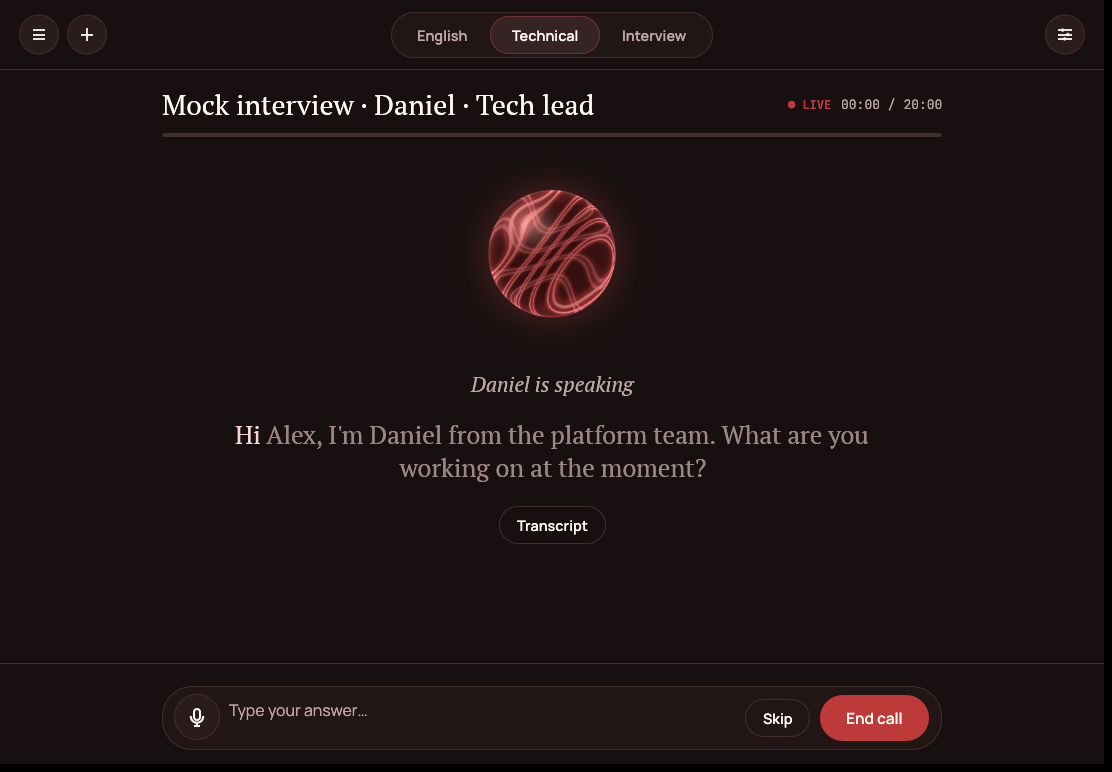
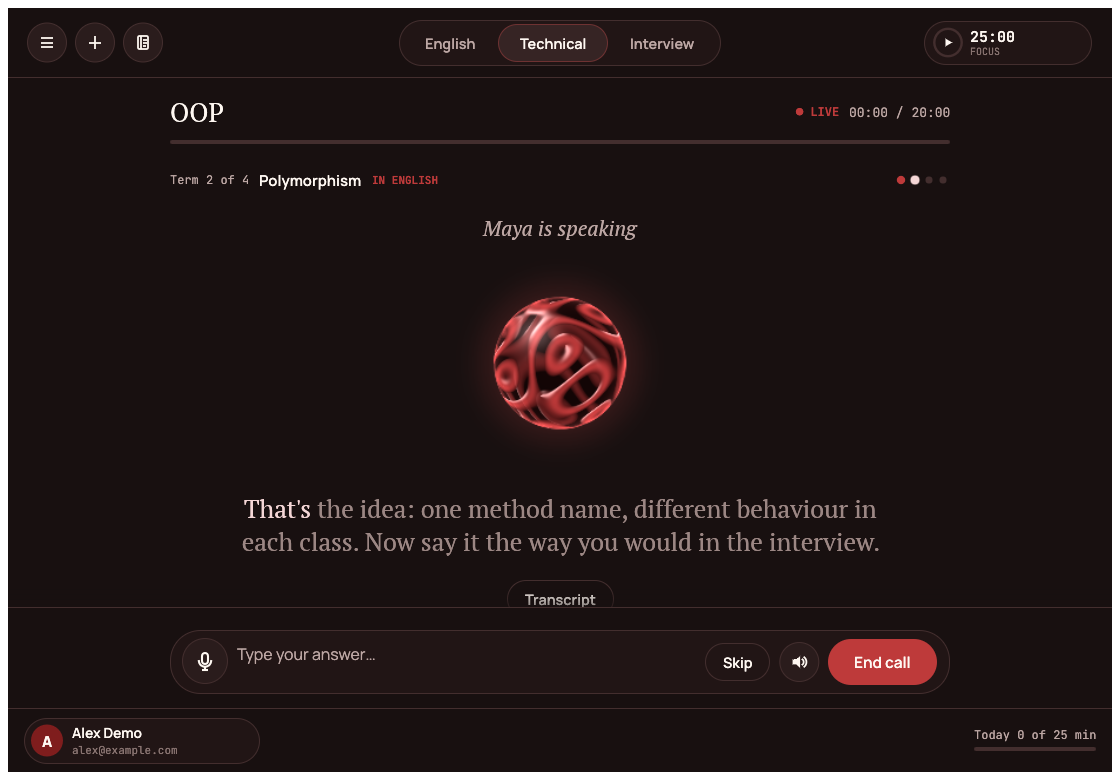
docs: the tutor, the plan, pictures and live coding
Describes what each part does and, where it matters, what it cannot do: the plan is the model's
knowledge and not a web search, and the coding tutor sees only this program's window. New
screenshots of the home, a lesson, a picture, live coding and the menu.

diff --git a/prep/tests/ui_shots.rs b/prep/tests/ui_shots.rs
@@ -1690,3 +1690,106 @@ fn the_finished_code_and_what_the_editor_saw_go_into_the_review() {
     assert!(prompt.contains("THE CODE AT THE END") && prompt.contains("return [0, 1]"), "{prompt}");
     assert!(prompt.contains("WHAT THE EDITOR SAW: nothing unusual."));
 }
+
+// ---- the pictures used in the documentation (written only when UI_SHOTS names a folder) ----
+
+#[test]
+fn docs_a_picture_in_the_middle_of_its_story() {
+    if std::env::var("UI_SHOTS").is_err() {
+        return;
+    }
+    let (mut harness, _d, _r) = harness(picture_fixture(), 1120.0, 780.0);
+    let stage = harness.state_mut().core.begin_stage("queue", "", false);
+    harness.state_mut().screen =
+        Screen::Show(Box::new(careertwin_prep::ui::show::ShowView { stage: Some(stage), ..Default::default() }));
+    wait_until(
+        &mut harness,
+        "the story is ready",
+        |h| matches!(&h.state().screen, Screen::Show(v) if v.stage.as_ref().is_some_and(|s| s.player().is_some())),
+    );
+    if let Screen::Show(view) = &mut harness.state_mut().screen {
+        let player = view.stage.as_mut().unwrap().player_mut().unwrap();
+        for i in 0..3 {
+            player.set_voice(i, None);
+        }
+    }
+    harness.run_steps(2);
+    harness.get_by_label("Next scene").click();
+    harness.run_steps(3);
+    // let the panels settle in, then stand at the moment the sentence is half said
+    for _ in 0..30 {
+        std::thread::sleep(std::time::Duration::from_millis(30));
+        harness.run_steps(1);
+    }
+    if let Screen::Show(view) = &mut harness.state_mut().screen {
+        view.stage.as_mut().unwrap().player_mut().unwrap().seek(0.7, std::time::Instant::now());
+    }
+    harness.run_steps(2);
+    shot(&mut harness, "docs-picture");
+}
+
+#[test]
+fn docs_a_lesson_with_the_tutor_speaking() {
+    if std::env::var("UI_SHOTS").is_err() {
+        return;
+    }
+    let (mut harness, _d, _r) = harness(fixture("en"), 1120.0, 780.0);
+    let wired = tutoring(&mut harness, Mode::Terms);
+    wired.events.send(Event::State(State::Speaking)).unwrap();
+    wired
+        .events
+        .send(Event::Lesson(LessonView { index: 1, total: 4, name: "Polymorphism".into(), stage: Stage::English }))
+        .unwrap();
+    wired
+        .events
+        .send(Event::Caption {
+            text: "That's the idea: one method name, different behaviour in each class.".into(),
+            seconds: 6.0,
+        })
+        .unwrap();
+    wired
+        .events
+        .send(Event::Caption { text: "Now say it the way you would in the interview.".into(), seconds: 4.0 })
+        .unwrap();
+    harness.run();
+    shot(&mut harness, "docs-lesson");
+}
+
+#[test]
+fn docs_the_home_with_a_plan_and_a_streak() {
+    if std::env::var("UI_SHOTS").is_err() {
+        return;
+    }
+    let (mut harness, _d, _r) = harness(fixture("en"), 1120.0, 900.0);
+    harness.state_mut().core.syllabus = Some(plan_of_two());
+    let now = careertwin_prep::session::now();
+    for back in 1..=4u64 {
+        harness.state_mut().core.stats.add_practice(now - back * 86_400, 15 * 60, 200);
+    }
+    harness.state_mut().core.stats.add_practice(now, 9 * 60, 120);
+    harness.state_mut().core.progress.record("OOP", "Encapsulation", careertwin_prep::syllabus::Half::Native, 3, now);
+    harness.run();
+    shot(&mut harness, "docs-home");
+}
+
+#[test]
+fn docs_live_coding_with_a_question_from_the_tutor() {
+    if std::env::var("UI_SHOTS").is_err() {
+        return;
+    }
+    let (mut harness, _d, _r) = harness(fixture("en"), 1280.0, 780.0);
+    let wired = coding(&mut harness);
+    wired.events.send(Event::State(State::Speaking)).unwrap();
+    wired
+        .events
+        .send(Event::Caption {
+            text: "Take [2, 7, 11] with the target 9 and follow the loop. What does it return?".into(),
+            seconds: 5.0,
+        })
+        .unwrap();
+    if let Screen::Live(view) = &mut harness.state_mut().screen {
+        view.coding.as_mut().unwrap().text = "def two_sum(nums, target):\n    seen = {}\n    for i, n in enumerate(nums):\n        seen[n] = i\n        if target - n in seen:\n            return [target - n, n]\n    return []\n".into();
+    }
+    harness.run_steps(3);
+    shot(&mut harness, "docs-coding");
+}

diff --git a/docs/PREP.md b/docs/PREP.md
@@ -1,20 +1,96 @@
 # CareerTwin Prep
 
-A separate program, written in Rust, for practising interviews **out loud** with an interviewer who talks like a
-person. It is not part of the interview overlay: the overlay helps during a real call, Prep is where you train for it.
+A separate program, written in Rust, for preparing for interviews **out loud**, as a conversation with a tutor who talks
+like a person. It is not part of the interview overlay: the overlay helps during a real call, Prep is where you train
+for it.
 
-Three tabs sit in a pill at the top:
+Every part looks the same: a glowing sphere in the middle that moves with the voice, what the tutor says written under
+it word by word as it is spoken, and a bar at the bottom to talk or type. A pill of three tabs sits at the top.
 
 | Tab | What it is for |
 |---|---|
 | **English** | A relaxed spoken conversation at your level (A2 to C1). The partner repeats your mistakes back correctly inside its own sentences, as a person would, and does not stop you to correct. *Say it in English*: say a thought in Russian, hear it in natural English in three registers, say it back and see which words went missing. Phrases from your reviews come back just before you forget them. |
-| **Technical** | A spoken technical interview: it asks about the real projects in your `ABOUT.md`, then about the stack, follows up on vague answers, raises the difficulty when you do well, and never gives hints. *Concept checks*: a question, a few answers and **how sure you are**; sure and wrong comes back soonest. |
-| **Interview** | Recruiter or hiring-manager interview: introduction, motivation, behavioural questions, availability and salary (only as your profile allows). *Prepare for a vacancy*: your CV against the vacancy, the gaps and how to answer them, and the questions it invites, each of which you can practise. |
+| **Technical** | **Your plan** for the vacancy, a **terms lesson** (first in your own language, then in English), **live coding**, a spoken **mock interview**, **concept checks** and **pictures**: any topic told as a short animated story. |
+| **Interview** | **Your introduction** coached until it is short, true and yours, a recruiter or hiring-manager **mock interview**, and *Prepare for a vacancy*: your CV against the vacancy, the gaps and how to answer them, and the questions it invites. |
+
+Under every tab, **Write instead** opens a quiet chat with the same tutor: nothing is spoken, so it works in a lecture. A
+good answer becomes a note.
 
 Every call ends with a **review**: scores, what to work on, each answer with what went well and what to fix, a better
-answer you can listen to and say yourself, language notes and phrases to keep.
+answer you can listen to and say yourself, language notes and phrases to keep, and **the 20% to keep**: the few lines
+that matter, saved to your notes.
 
-<p align="center"><img src="media/prep-home.png" alt="The Technical tab: the pill of three tabs and the three ways to practise" width="760"></p>
+<p align="center"><img src="media/prep-home.png" alt="The Technical tab: the sphere, today's topic and the button to start it, three numbers for today, and the other ways to practise" width="760"></p>
+
+## The plan: 80/20 for your vacancy
+
+Paste the vacancy and the program works out what you are likely to be asked. It ranks the topics (object-oriented
+programming, REST, SQL and so on) by how likely each is and by how much work it takes, keeps the few that hold **80% of
+the likely questions**, and writes every term of those in plain words, in your language, with an everyday comparison and
+a good spoken answer in English. Everything on the plan says how much of the likely questions you already cover.
+
+It is the model's knowledge of what interviews for such a role usually ask, shaped by the text of the vacancy and your
+`ABOUT.md`; it does not search the web, and it knows nothing about the company beyond what the vacancy says. A vacancy
+that has changed since the plan was made is noticed.
+
+## The terms lesson
+
+For each term the tutor goes through two stages:
+
+1. **In your own language.** It asks what the term means. If you are right, it says so and moves on. If you are partly
+   right, it fixes the rest in plain words with the comparison. If you say you do not know, it does not hand over the
+   answer: it asks a small question that leads one step, or gives the comparison, and lets you say it.
+2. **In English**, as in the interview. It accepts imperfect English and repeats the correct form inside its own reply
+   instead of pointing at the mistake, then asks the follow-up an interviewer would ask.
+
+Each half is scored 0 to 3 by the tutor; what you know is kept, and the plan's coverage moves. The lesson is a focus
+block: starting it starts the timer.
+
+## Pictures
+
+Ask the tutor to show or draw something (or choose *Explain with pictures* and type a topic) and it is told as a short
+animated story for a complete beginner: floating glowing panels around the sphere, which narrates in the corner while
+the words light up. There are eight kinds of picture (boxes with arrows, a row of cells, a little code with the line that
+matters lit, two things side by side, numbered steps, "this is like that", layers, and plain text). Items come in as
+they are said, and a panel that continues from one scene to the next grows instead of appearing again.
+
+You can pause, skip, go back, replay, close it, or ask for a simpler version. Speaking over it pauses it; when it ends,
+the tutor asks one question to see whether it landed.
+
+<p align="center"><img src="media/prep-picture.png" alt="A visual explanation of a queue: a row of people, a journey and a few lines of code, with the narrator under them" width="760"></p>
+
+## Live coding
+
+You get a task for the vacancy, in the language you choose, with the solution idea, the mistakes to look for and
+three nudges kept **for the tutor only**. You write in an editor while the tutor, at the side, lets you think.
+
+- When the code has been still for a few seconds, the tutor looks at it. **On the right track, it says nothing.**
+- If something is wrong it never names the line or the fix. It asks you to check: *"Take [2, 7, 11] with the target 9 and
+  follow the loop; what does it return?"* If you stay stuck it points at the area, never at the answer.
+- If you are stuck, you get a nudge as a question, from the vague ones to the specific.
+- If you say you do not know, you work it out **together**, one small step at a time, and you type every change.
+- When you say you are done, it asks you to try a tricky input and for the complexity.
+
+It also watches for what you would not be allowed to do in a real interview: a block that arrives all at once instead of
+being typed, or the window left for a long time followed by a finished solution. It does not accuse; it asks you to walk
+it through that part in your own words. **It sees only this program's window**: it cannot see other windows or the
+screen, and it does not try to. The review is told what it saw.
+
+<p align="center"><img src="media/prep-coding.png" alt="Live coding: the tutor with the task at the left, the editor at the right, a question on the screen" width="760"></p>
+
+## Notes, the focus timer and your numbers
+
+- **Notes** (the notebook at the top left): short, one idea each. After every call the tutor keeps the few lines worth
+  remembering and the slips to avoid; in a chat, an answer worth keeping is saved on its own; you can add your own, star
+  the ones that matter, and copy everything as Markdown.
+- **Focus timer** (top right): a Pomodoro of 25 minutes of work and 5 of rest, a long rest after four blocks, with a soft
+  chime. The lengths are in Settings. When a block ends during a call, the tutor is told and suggests a break at the next
+  natural pause. `Ctrl+Shift+T` starts or pauses it.
+- **The panel at the bottom** shows your name and address, and how today is going against your goal; its menu has
+  Settings (`Ctrl+Shift+,`), Usage, Language, Help and Quit. **Usage** shows today, the week and the total, and the
+  streak.
+
+<p align="center"><img src="media/prep-menu.png" alt="The menu that opens from the panel at the bottom left: Settings, Usage, Language, Help, Quit" width="520"></p>
 
 ## Run it
 
@@ -25,11 +101,11 @@ careertwin-prep --doctor           # checks the model, recognition, voice, micro
 careertwin-prep
 ```
 
-Settings are in the window (the gear). Nothing is needed in a file, but a key can also come from its usual
+Settings are in the menu at the bottom left of the window. Nothing is needed in a file, but a key can also come from its usual
 environment variable (`GROQ_API_KEY`, `OPENAI_API_KEY`, `ELEVENLABS_API_KEY`, `SWITCHYARD_API_KEY`), so a key never has
 to be typed anywhere.
 
-<p align="center"><img src="media/prep-review.png" alt="The review after a call: scores, what to work on, and a better answer to listen to" width="760"></p>
+<p align="center"><img src="media/prep-review.png" alt="The review after a call: the 20% to keep at the top, then scores and what to work on" width="760"></p>
 
 ## How it talks like a person
 
@@ -128,13 +204,13 @@ sample.
 
 ```bash
 cd prep
-cargo test                          # 290+ tests; none needs a sound card or the network
+cargo test                          # 450+ tests; none needs a sound card or the network
 cargo test --features local         # also builds whisper.cpp and the candle voices (needs cmake)
 UI_SHOTS=/tmp/shots cargo test --test ui_shots   # writes a PNG of every screen
 cargo test --test hardware -- --ignored --nocapture      # the real microphone and speakers
-cargo test --test live_llm -- --ignored --nocapture      # the interviewer on a real model, with the demo profile
+cargo test --test live_llm -- --ignored --nocapture      # the interviewer, the tutor, the pictures and the coding tutor on a real model, with the demo profile
 cargo test --release --features local --test local_models -- --ignored --nocapture   # the offline voice and ear
 ```
 
-The window is egui. The sphere is painted pixel by pixel on the CPU, so it looks the same everywhere and is checked in
-tests. Fonts are PT Serif, Manrope and JetBrains Mono (SIL Open Font License, in `prep/assets/fonts`).
+The window is egui. The sphere and the floating panels are painted by the program itself (the sphere pixel by pixel on
+the CPU), so they look the same everywhere and are checked in tests. Fonts are PT Serif, Manrope and JetBrains Mono (SIL Open Font License, in `prep/assets/fonts`).

diff --git a/README.md b/README.md
@@ -137,18 +137,24 @@ what to say.
 
 ## Practise with CareerTwin Prep
 
-The overlay helps during a call; **Prep** is where you train for one. It is a separate program, written in Rust, with
-three tabs: English, Technical interview and Job interview. You talk, out loud, to an interviewer who answers like a
-person: it starts speaking as soon as its first sentence is written, waits when your thought is not finished,
-follows up on a vague answer, stops when you talk over it (with headphones), nudges you when you go quiet and asks
-about the real work in your `ABOUT.md`. Afterwards it gives a review, with a better answer you can listen to and
-say yourself.
+The overlay helps during a call; **Prep** is where you train for one. It is a separate program, written in Rust: a
+conversation with a tutor who talks like a person, with the same look everywhere: a glowing sphere that moves with the
+voice, and the tutor's words written under it as they are spoken.
 
-<p align="center"><img src="docs/media/prep-call.png" alt="A call in CareerTwin Prep: the glowing sphere, the interviewer's sentence with the spoken words bright, and the bar to talk or type" width="760"></p>
+- **A plan for the vacancy by the 80/20 rule**: the few topics that hold most of the likely questions, every term in
+  plain words in your language.
+- **A terms lesson**: each term first in your own language, then in English, as in the interview.
+- **Pictures**: ask it to show something and it tells it as a short animated story with floating panels and a voice.
+- **Live coding**: it watches your code, stays quiet while you are on the right track, asks instead of telling when
+  something is off, and notices a pasted block. It never gives the answer.
+- **Your introduction, mock interviews, an English conversation**, a quiet chat for lectures, notes with the 20% that
+  matters, a focus timer and a streak.
+
+<p align="center"><img src="docs/media/prep-call.png" alt="A terms lesson in CareerTwin Prep: the sphere, the tutor's sentence with the spoken words bright, the term and its stage" width="760"></p>
 
 It works with cloud engines, with your own servers, or **fully offline**: Whisper for hearing, Kokoro for the English
-voice and a small model in Ollama for the interviewer. The program detects the memory and the cores and says which
-sizes fit. See [docs/PREP.md](docs/PREP.md).
+voice and a small model in Ollama for the tutor. The program detects the memory and the cores and says which sizes fit.
+See [docs/PREP.md](docs/PREP.md).
 
 ```bash
 ./scripts/install-prep.sh     # builds it, with the offline engines
